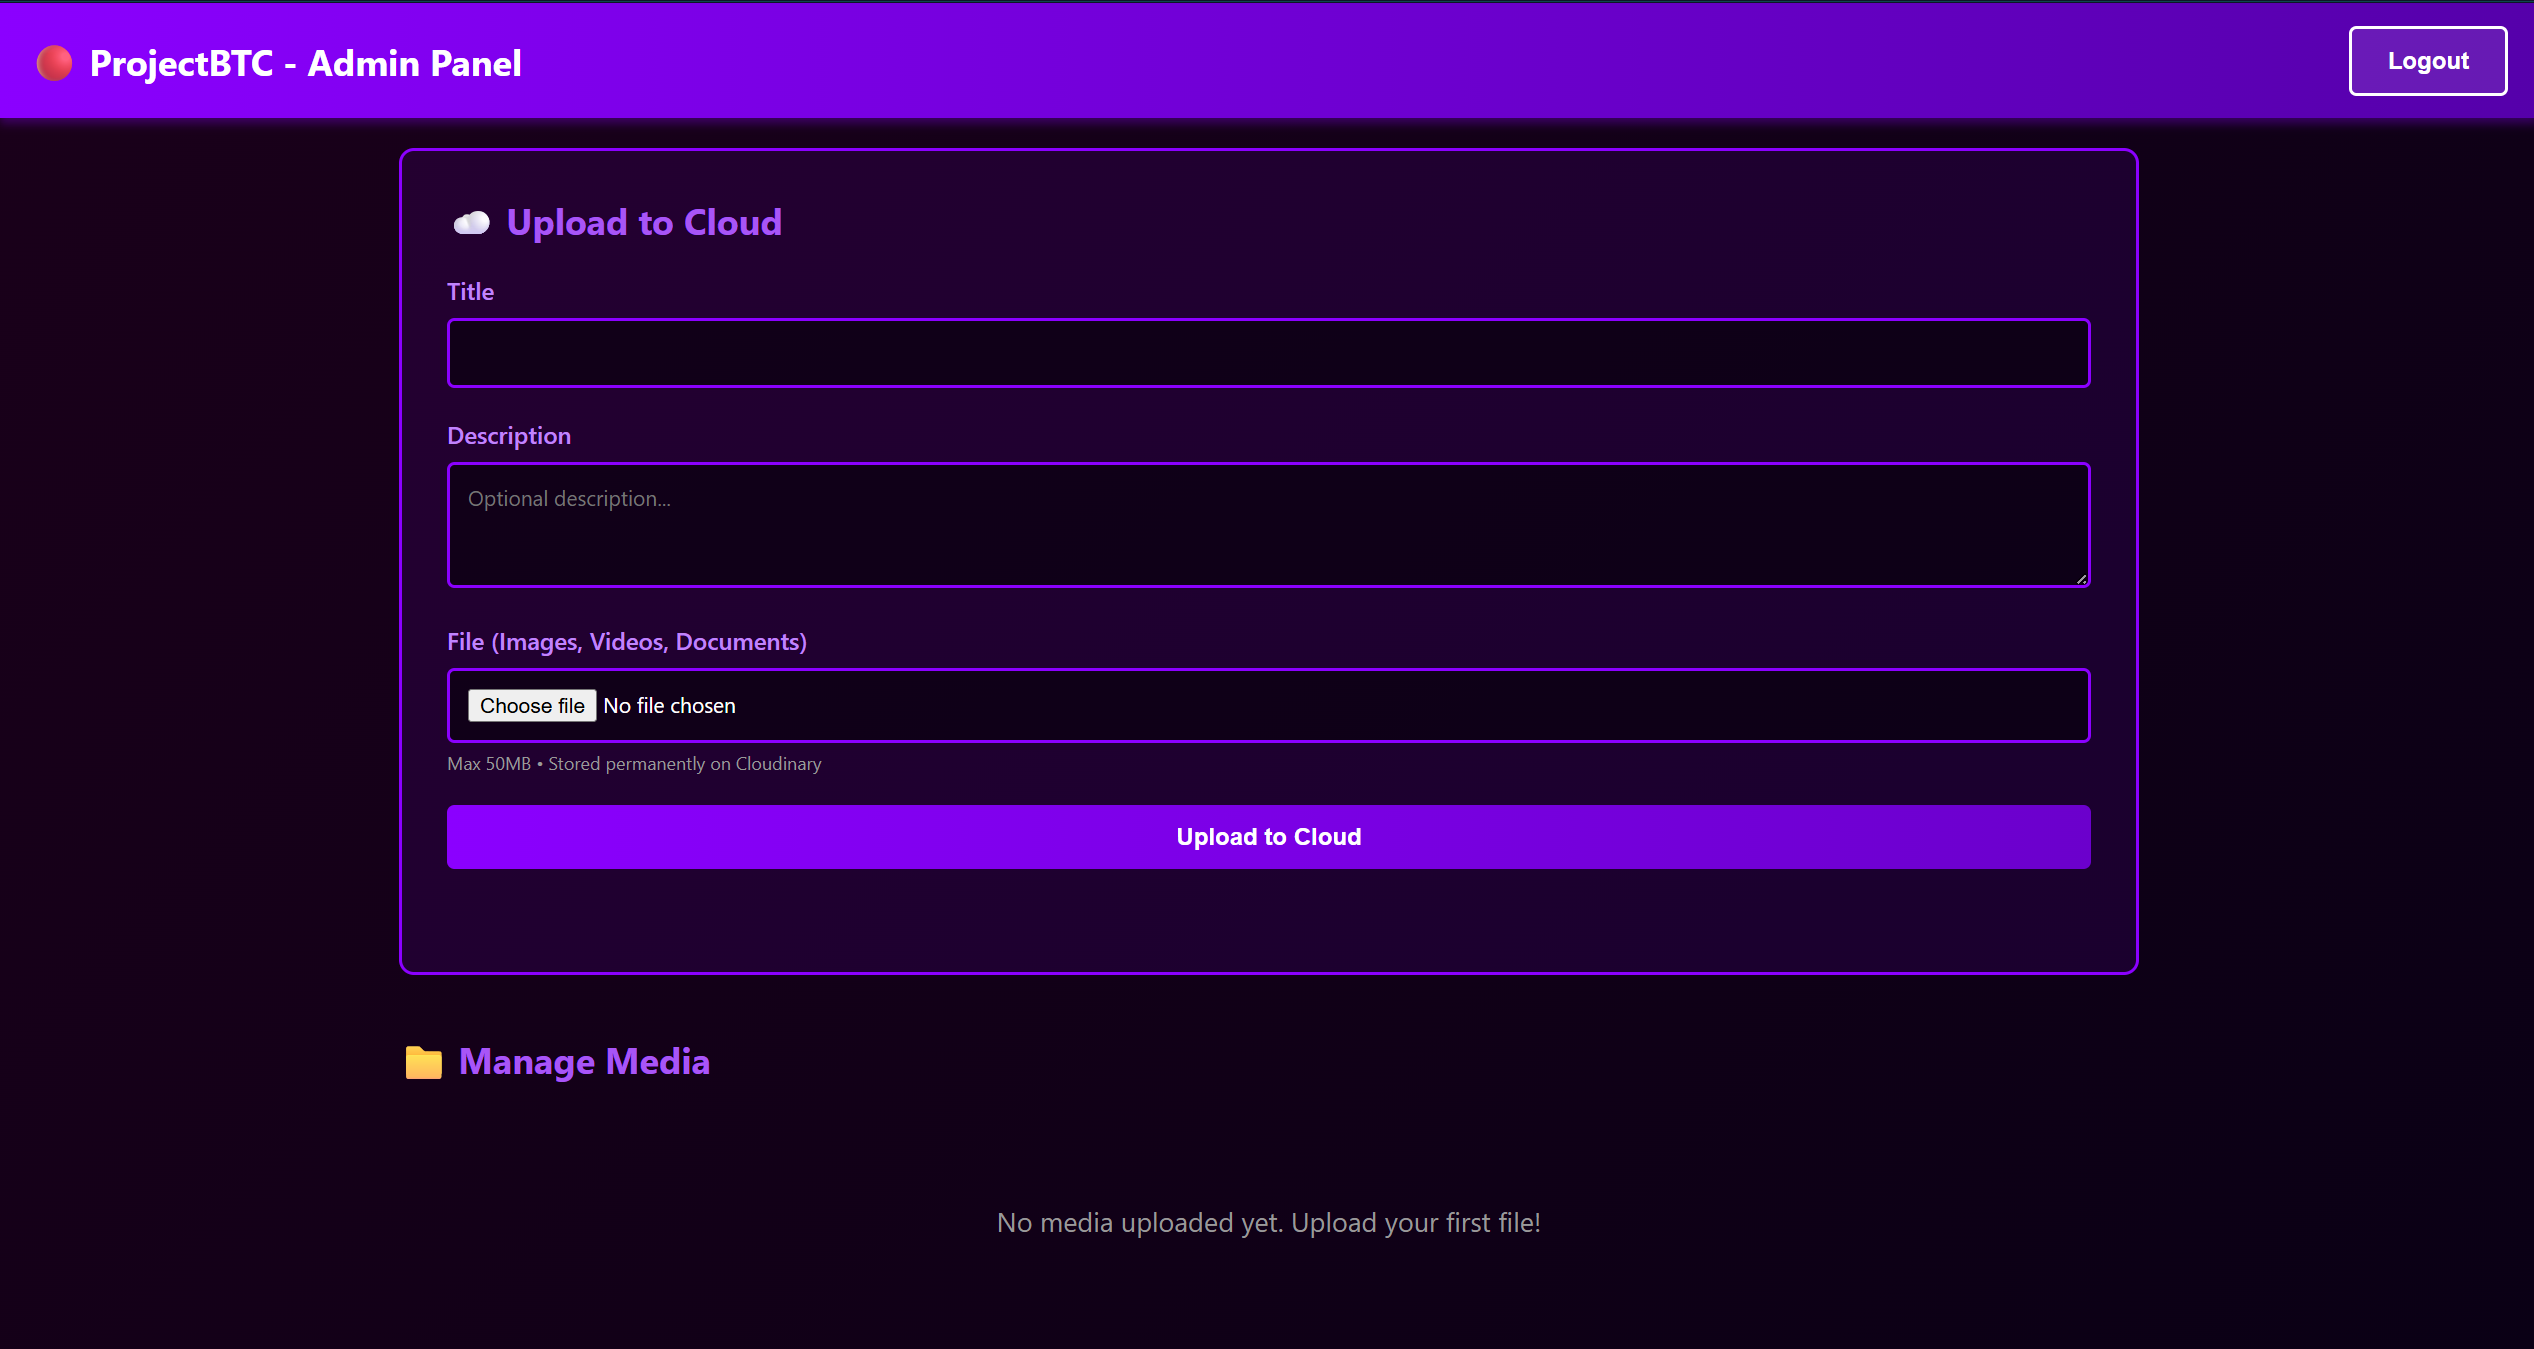
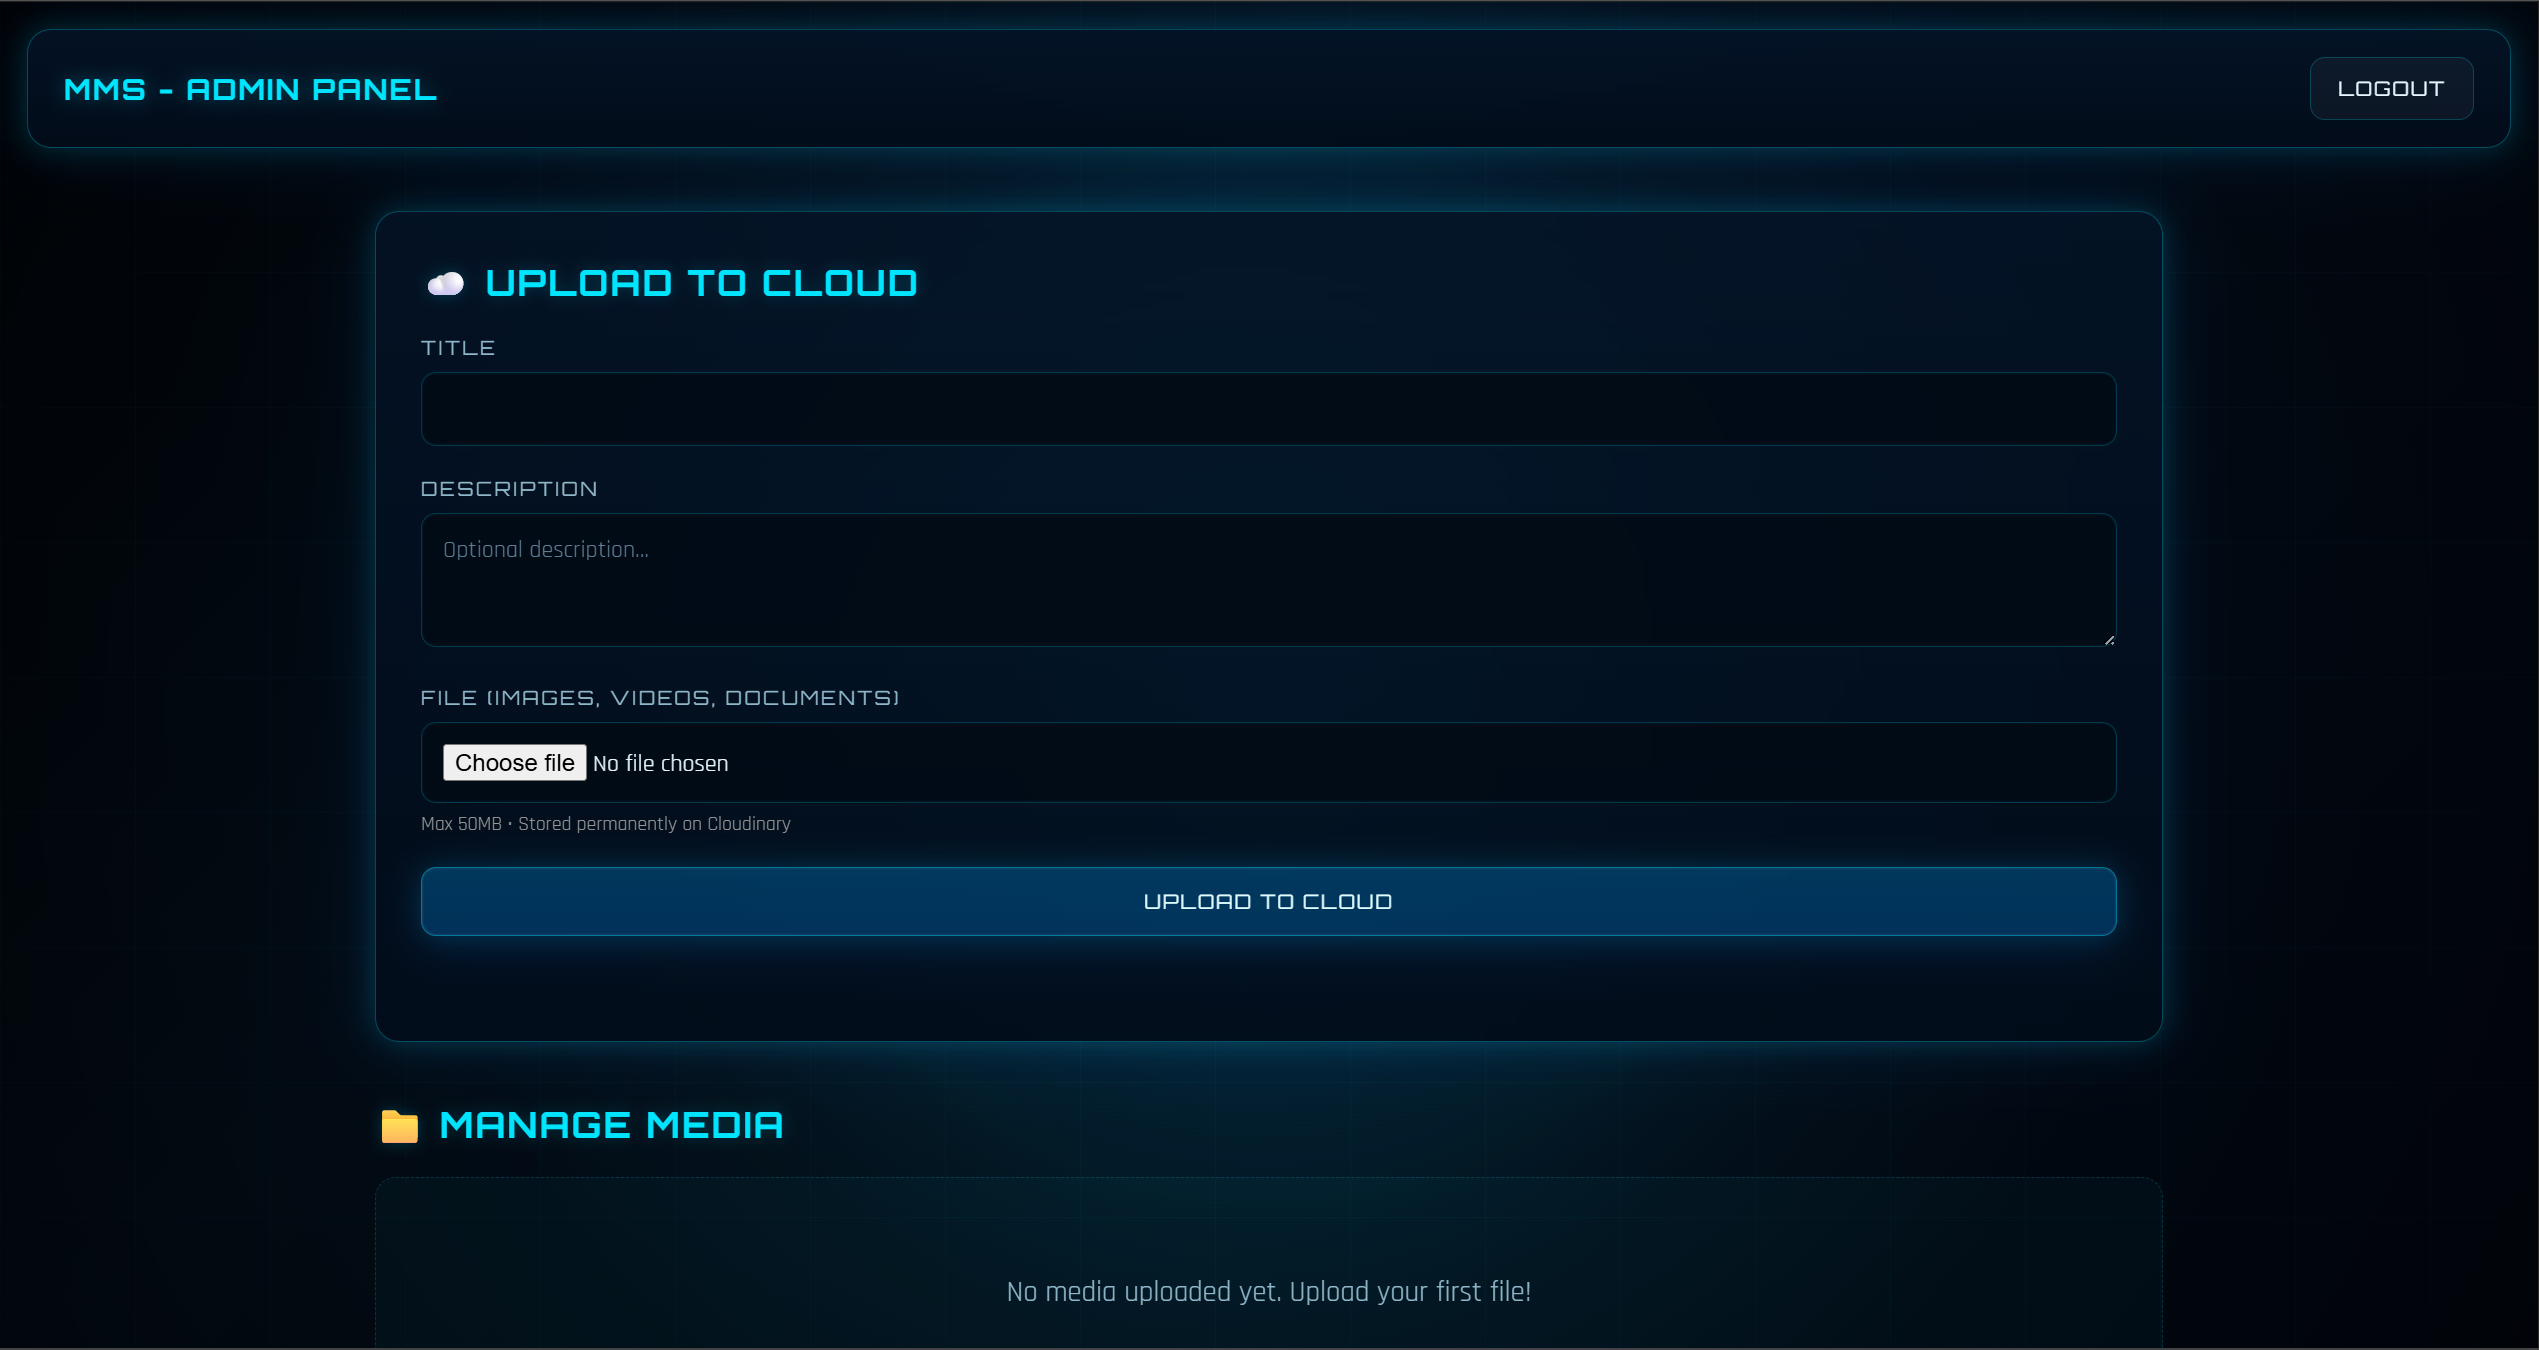
Updated Folio May 26

diff --git a/index.html b/index.html
@@ -50,7 +50,7 @@
                 
                 <div class="right-section">
                     <div class="image-container">
-                        <img src="https://img.freepik.com/free-photo/programming-background-with-person-working-with-codes-computer_23-2150010125.jpg?semt=ais_user_personalization&w=740&q=80" alt="Code Editor">
+                        <img src="https://png.pngtree.com/background/20250227/original/pngtree-contemporary-office-setting-featuring-state-of-the-art-devices-and-futuristic-picture-image_13294375.jpg" alt="Code Editor">
                     </div>
                 </div>
             </div>
@@ -120,6 +120,7 @@
             <!-- Filter Tabs -->
             <div class="filter-tabs">
                 <button class="filter-btn active" data-filter="all">ALL</button>
+                <button class="filter-btn" data-filter="portfolio">PORTFOLIO</button>
                 <button class="filter-btn" data-filter="coded">CODED</button>
                 <button class="filter-btn" data-filter="designed">DESIGNED</button>
             </div>
@@ -149,12 +150,34 @@
                 </div>
 
                 <!-- Project 3 - Music App -->
+                <div class="project-card" data-category="portfolio">
+                    <div class="project-image">
+                        <img src="Images/PF1.png" alt="Main Portfolio">
+                        <div class="project-overlay">
+                            <h3>Surya Anish K </h3>
+                            <p>Main Portfolio</p>
+                        </div>
+                    </div>
+                </div>
+
+                <!-- Project 3 - Music App -->
                 <div class="project-card" data-category="designed">
                     <div class="project-image">
                         <img src="Images/Picture2.png" alt="Music Application">
                         <div class="project-overlay">
                             <h3>Parkinson's Disease</h3>
                             <p>Disease Prediction Using AIML</p>
+                        </div>
+                    </div>
+                </div>
+
+                <!-- Project 4 - Game Design -->
+                <div class="project-card" data-category="portfolio">
+                    <div class="project-image">
+                        <img src="Images/TPF.png" alt="Friend Folio">
+                        <div class="project-overlay">
+                            <h3>C. Tarun Varma</h3>
+                            <p>Friend's Portfolio</p>
                         </div>
                     </div>
                 </div>
@@ -181,6 +204,17 @@
                     </div>
                 </div>
 
+                <!-- Project 3 - Music App -->
+                <div class="project-card" data-category="portfolio">
+                    <div class="project-image">
+                        <img src="Images/PF2.png" alt="Portfolio 2.0">
+                        <div class="project-overlay">
+                            <h3>Surya Anish K 2.0</h3>
+                            <p>Portfolio 2.0</p>
+                        </div>
+                    </div>
+                </div>
+
                 <!-- Project 6 - Machine Learning -->
                 <div class="project-card" data-category="coded">
                     <div class="project-image">
@@ -193,12 +227,12 @@
                 </div>
 
                 <!-- Project 6 - Machine Learning -->
-                <div class="project-card" data-category="coded">
+                <div class="project-card" data-category="portfolio">
                     <div class="project-image">
-                        <img src="Images/MP3.png" alt="Machine Learning Projects">
+                        <img src="Images/PF3.png" alt="Portfolio 3.0">
                         <div class="project-overlay">
-                            <h3>Mp3 Player</h3>
-                            <p>Front-End Node.js Project</p>
+                            <h3>Surya Anish K 3.0</h3>
+                            <p>Portfolio 3.0</p>
                         </div>
                     </div>
                 </div>

diff --git a/style.css b/style.css
@@ -199,7 +199,7 @@ nav a:hover::after {
 }
 
 .image-container img {
-    width: 80%;
+    width: 100%;
     height: auto;
     border-radius: 15px;
     box-shadow: 